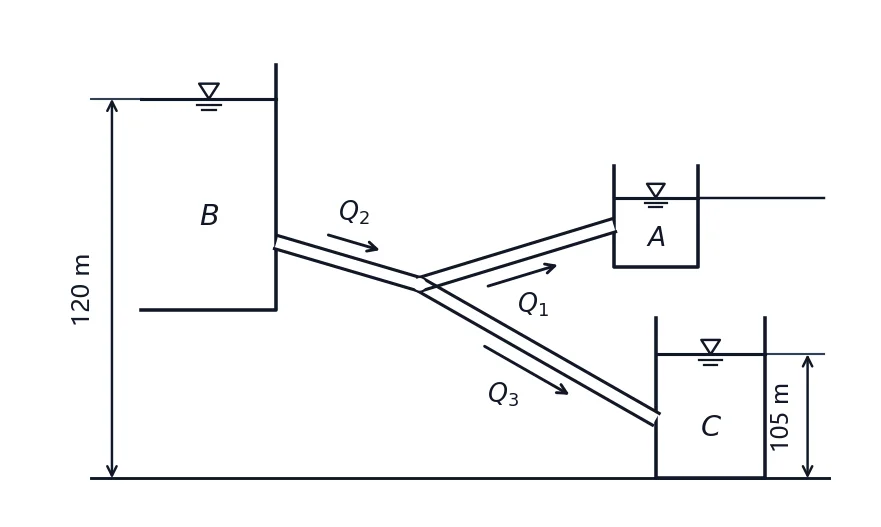
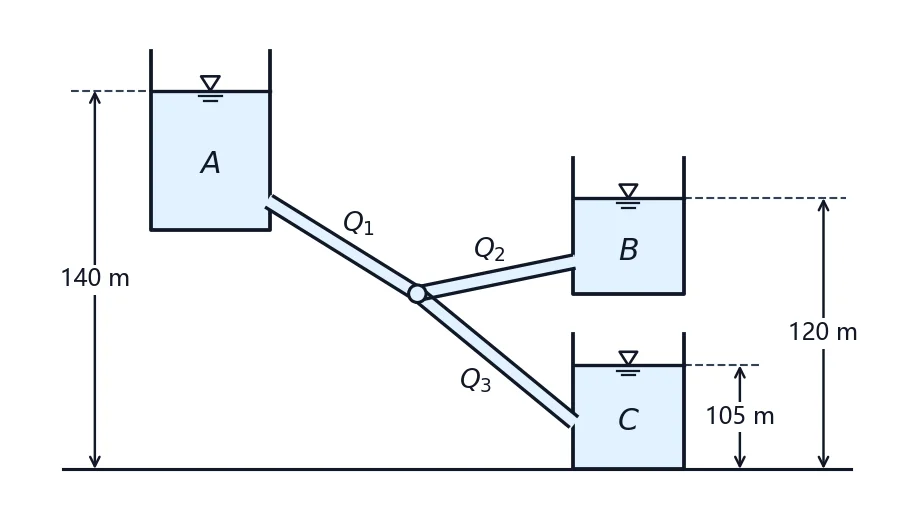
fix: redraw HHU 814 2025 Q16 schematic and bump SW cache v27

Changed region(s): [[0.0613, 0.093, 0.9501, 0.9302]]

diff --git a/web/public/sw.js b/web/public/sw.js
@@ -1,4 +1,4 @@
-const CACHE_NAME = 'jingyan-multi-v26';
+const CACHE_NAME = 'jingyan-multi-v27';
 const PRECACHE_URLS = [
   './',
   './index.html',
